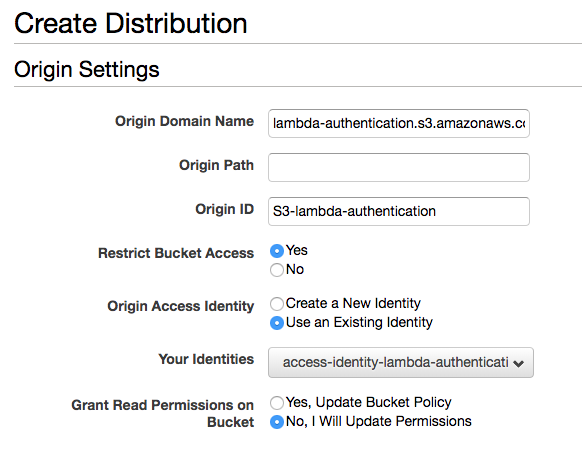
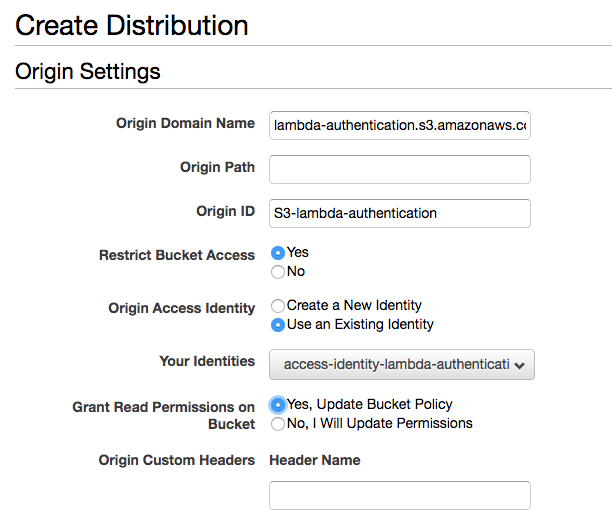
clean up s3 lambda auth post

Changed region(s): [[0.0, 0.0312, 1.0, 0.6236], [0.0928, 0.6548, 0.9278, 0.9666]]

diff --git a/_posts/2018-06-08-s3-lambda-auth.md b/_posts/2018-06-08-s3-lambda-auth.md
@@ -1,6 +1,6 @@
 ---
 layout: post
-title: Adding Authentication to Static Sites with S3, CloudFront, and Lambda
+title: Adding Authentication to Static Sites with AWS Lambda
 date: 2018-06-08
 categories: serverless
 thumbnail: /assets/posts/s3-lambda-auth/s3-lambda-auth-thumbnail.jpg
@@ -11,11 +11,11 @@ js:
 
 {% capture imgs %}{{ site.baseurl }}/assets/posts/s3-lambda-auth/images{% endcapture %}
 
-Many websites require authentication to protect private data. When working on a website that uses a server, it's usually not too much trouble to create some server-side middleware that protects certain routes or web pages. When working on a serverless website served by Apache, one can use [htpasswd files](https://httpd.apache.org/docs/2.4/programs/htpasswd.html) to challenge users to authenticate. When working on a website deployed to a bucket in Amazon Web Service's S3 service, however, creating an authentication layer is a little more tricky. This post will attempt to make the process a little easier for others to create password-protected S3 static sites.
+Many websites require authentication to protect private data. When working on a website that uses a server, it's usually not too much trouble to create some server-side middleware that protects certain routes or web pages. When working on a serverless website served by Apache or Nginx, one can use [htpasswd files](https://httpd.apache.org/docs/2.4/programs/htpasswd.html) to challenge users to authenticate. When working on a serverless website hosted from an S3 bucket, however, creating an authentication layer is a little more tricky. This post will attempt to make the process a little easier for others to create password-protected static sites with S3, CloudFront, and Lambda.
 
 ## Creating a Static File Site on S3
 
-To get started, you'll want to create a sample web page that we can upload to an S3 bucket. Here's the sample I'll be using:
+To get started, you'll want to create a sample web page. Here's the one I'll be using:
 
 {% highlight html %}
 <!DOCTYPE html>
@@ -35,53 +35,55 @@ To get started, you'll want to create a sample web page that we can upload to an
 </html>
 {% endhighlight %}
 
-Once you have an HTML page to display, you'll need to [register for an AWS account](https://aws.amazon.com/free/) if you don't already have one. Then, after signing in, go to your [list of S3 buckets](https://console.aws.amazon.com/s3/home), click "Create bucket" and give your bucket a name. I'll name my bucket lambda-auth:
+Once you have an HTML page to display, you'll need to [register for an AWS account](https://aws.amazon.com/free/) if you don't already have one. Then, after signing in, go to your [list of S3 buckets](https://console.aws.amazon.com/s3/home), click **"Create bucket"** and give your bucket a name. I'll name my bucket **lambda-authentication**:
 
 <img alt='Create a new bucket for a static file site' src='{{ imgs }}/create-bucket.png' />
 
-When prompted to set the permissions for the bucket, under "Manage public permissions" select "Grant public read acess to this bucket". That will display a little orange message confirming that your bucket contents will be public (we'll change this below):
+When prompted to set the permissions for the bucket, under **"Manage public permissions"**select **"Grant public read acess to this bucket"**. That will display a little orange message confirming that your bucket contents will be public (we'll change this later):
 
 <img alt='Make your bucket contents public' src='{{ imgs }}/bucket-permissions.png' />
 
-All other defaults are fine to accept. Once the bucket is created, you can upload your HTML file to the bucket by clicking the bucket, then clicking the "Upload" button. Drag your file (which should be named index.html) into the filepicker, click "Next" until you are prompted to "Manage public permissions" for your uploaded file, and select "Grant public read access to this object(s)":
+All other defaults are fine to accept. Once the bucket is created, you can upload your HTML file to the bucket by clicking the bucket, then clicking the **"Upload"** button. Drag your HTML file (which should be named index.html) into the filepicker, click **"Next"** until you are prompted to **"Manage public permissions"** for your uploaded file, and select **"Grant public read access to this object(s)"**:
 
 <img alt='Grant public read access to your html' src='{{ imgs }}/read-access-file.png' />
 
-Then keep clicking "Next" until you get to the end, and click "Upload". Next click the "Properties" tab in your bucket, select "Server website hosting", select "Use this bucket to host a website", and specify "index.html" as the default and error document:
+Then keep clicking **"Next"** until you get to the end, and click **"Upload"**. Next click the **"Properties"** tab in your bucket, select **"Server website hosting"**, select **"Use this bucket to host a website"**, and specify **"index.html"** as the default and error documents:
 
 <img alt='Configure bucket hosting' src='{{ imgs }}/configure-bucket-hosting.png' />
 
-Finally save your settings. If you want to get fancy later, you can upload a special 404 page and specify that file as the error document, but let's keep things simple. If you click on the "Static website hosting" card again, you should see an "Endpoint" specified. If you visit that web address, you should see your website:
+Finally save your settings. If you want to get fancy later, you can upload a special 404 page and specify that file as the error document, but let's keep things simple for now.
+
+If you click on the **"Static website hosting"** card again, you should see an **"Endpoint"** specified. If you visit that web address, you should see your website:
 
 <img alt='Testing the website is displayed' src='{{ imgs }}/hello-website.png' />
 
-Great! You're now ready to begin configuring user-authentication by configuring a CloudFront distribution for your site.
+Great! You're now ready to create a user-authentication layer by configuring a CloudFront distribution for your site.
 
 ## Distributing Your S3 Site with CloudFront
 
 CloudFront is AWS's content distribution network, which distributes your S3 site content to servers around the world, getting your content to viewers faster. CloudFront also allows us to add authentication to an S3 site.
 
-To get started with CloudFront, return to the AWS [console](https://console.aws.amazon.com/console/home?region=us-east-1) and click the CloudFront link, then click the big blue button that says "Create Distribution":
+To get started with CloudFront, return to the AWS [console](https://console.aws.amazon.com/console/home?region=us-east-1) and click the CloudFront link, then click the big blue button that says **"Create Distribution"**:
 
 <img alt='Create distribution button' src='{{ imgs }}/create-distribution.png' />
 
-On the following screen, click the blue button that says "Get Started" under the "Web" section, then select your S3 bucket address under "Origin Domain Name". Under "Restrict Bucket Access", select "Yes", then choose "access-identity-lambda-authentication" as the identity to use:
+On the following screen, click the blue button that says **"Get Started"** under the **"Web"** section, then **select your S3 bucket address** under "Origin Domain Name". Under **"Restrict Bucket Access"** select **"Yes"**, set **"access-identity-lambda-authentication"** as the identity to use, and finally choose **"Yes, Update Bucket Policy"**:
 
 <img alt='Create distribution button' src='{{ imgs }}/distribution-settings.png' />
 
-In the text field labelled "Default Root Object" below, type "index.html", then click "Create Distribution". From the next page, you should be able to click the "Distributions" link in the left sidebar to see your new distribution's status. Take a note of the value under "Domain Name" -- in just a few moments that value will become the new address of our site. The "Status" field will say "in progress" for a few minutes, so while it's generating we can configure the Lambda function that will provide the actual authentication mechanism.
+In the text field labelled **"Default Root Object"** below, type **"index.html"**, then click **"Create Distribution"**. From the next page, you should be able to click the **"Distributions"** link in the left sidebar to see your new distribution's status. Take a note of the value under **"Domain Name"** -- in just a few moments that value will become the new address of your new website. The **"Status"** field will say "in progress" for a few minutes, so while it's generating we can configure the Lambda function that will provide the actual authentication mechanism.
 
 ## Creating IAM Credentials
 
-In order to configure Lambda to work with an S3 bucket, we'll need to create an IAM profile that has access to the bucket. To do so, navigate back go the AWS [console](https://console.aws.amazon.com/console/home?region=us-east-1) and click the link for the [IAM](https://console.aws.amazon.com/iam/home?region=us-east-1#/home) service. Once there, click "Roles" in the left-hand sidebar, then "Create role". On the next screen, under "Choose the service that will use this role" click "Lambda", then click "Next: Permissions" at the bottom of the screen. Search for and select the "AWSLambdaExecute" role:
+In order to configure Lambda to work with an S3 bucket, we'll need to create an IAM profile that has access to the bucket. To do so, navigate back go the AWS [console](https://console.aws.amazon.com/console/home?region=us-east-1) and click the link for the [IAM](https://console.aws.amazon.com/iam/home?region=us-east-1#/home) service. Once there, click **"Roles"** in the left-hand sidebar, then **"Create role"**. On the next screen, under **"Choose the service that will use this role"** click **"Lambda"**, then click **"Next: Permissions"** at the bottom of the screen. Search for and select the **"AWSLambdaExecute"** role:
 
 <img alt='AWS Lambda Execute role' src='{{ imgs }}/lambda-execute.png' />
 
-Then click "Next: Review" at the bottom of the page. On the next screen, name your role "lambda-execute-role", then click "Create role":
+Then click **"Next: Review"** at the bottom of the page. On the next screen, name your role **"lambda-execute-role"**, then click **"Create role"**:
 
 <img alt='Naming the AWS Lambda Execute role' src='{{ imgs }}/lambda-execute-role.png' />
 
-On the next page you should see that your Lambda role has been created. Once it's created, click on the link to the role, then click "Trust relationships", then click "Edit trust relationship" and replace the contents with the following:
+On the next page you should see that your Lambda role has been created. Once it's created, click on the link to the role, then click **"Trust relationships"**, then click **"Edit trust relationship"** and replace the contents with the following:
 
 {% highlight json %}
 {
@@ -101,21 +103,21 @@ On the next page you should see that your Lambda role has been created. Once it'
 }
 {% endhighlight %}
 
-This little update allows the policy to interact with Lambda@Edge, which is the service that provides the authentication logic. Once that's all set, you are ready to proceed to using this role in Lambda itself.
+This little update allows the policy to interact with [Lambda@Edge](https://docs.aws.amazon.com/lambda/latest/dg/lambda-edge.html), which is the service that provides the authentication logic. Once that's all set, you are ready to proceed to using this role in Lambda itself.
 
 ## Creating the Authentication Layer with AWS Lambda
 
-With all of the stage-setting in place, we can now create the actual logic that will handle user-authentication. To do so, return once again to the AWS [console](https://console.aws.amazon.com/console/home?region=us-east-1). Once you're there, take a look at the black navigational bar at the top of your screen. Off to the right you should be able to select the "region" in which you wish to operate. For this next step *you must be in the N. Virginia region* (a.k.a. us-east-1). Once you're in the N. Virginia region, click the link for "Lambda".
+With all of the stage-setting in place, we can now create the actual logic that will handle user-authentication. To do so, return once again to the AWS [console](https://console.aws.amazon.com/console/home?region=us-east-1). Once you're there, take a look at the black navigational bar at the top of your screen. Off to the right you should be able to select the **"region"** in which you wish to operate. For this next step *you must be in the N. Virginia region* (a.k.a. us-east-1). Once you're in the N. Virginia region, click the link for **"Lambda"**.
 
-Lambda is a piece of AWS's "serverless" stack that allows one to run serverside code without having to build, run, and maintain a whole server. We'll use it to run our authentication logic. On the Lambda landing page, click the orange button that says "Create a function"
+Lambda is a piece of AWS's "serverless" stack that allows one to run serverside code without having to build, run, and maintain a whole server. We'll use it to run our authentication logic. On the Lambda landing page, click the orange button that says **"Create a function"**:
 
 <img alt='Creating a lambda function' src='{{ imgs }}/create-a-function.png' />
 
-On the next page, keep "Author from scratch" selected. Name the function "authentication", select Node.js as the runtime, select "Choose an existing role" under "Role", and select "lambda-execute-role" under "Existing role" (this is the role we just created in the IAM console):
+On the next page, keep **"Author from scratch"** selected. Name the function **"authentication"**, select **Node.js** as the runtime, select **"Choose an existing role"** , and select **"lambda-execute-role"** as the existing role to use (this is the role we just created in the IAM console):
 
 <img alt='Configuring lambda roles' src='{{ imgs }}/author-from-scratch.png' />
 
-Finally, click "Create function" at the bottom of the page. Scroll down to the code editor, then paste the following snippet into the input field:
+Finally, click **"Create function"** at the bottom of the page. Scroll down to the code editor and paste the following snippet into the input field:
 
 {% highlight javascript %}
 exports.handler = (event, context, callback) => {
@@ -149,21 +151,21 @@ exports.handler = (event, context, callback) => {
 };
 {% endhighlight %}
 
-This snippet exports a single function that takes as input the three default arguments Lambda provides to Node functions [[docs](https://docs.aws.amazon.com/lambda/latest/dg/nodejs-prog-model-handler.html)]. The function then pulls out the request and its headers, specifies the correct username and password, and checks to see if the user's request contained the username and password in its authentication headers. If not, it prompts the user to authenticate; if so it allows the user into the site.
+This snippet exports a single function that takes as input the three default arguments Lambda provides to Node.js functions [[docs](https://docs.aws.amazon.com/lambda/latest/dg/nodejs-prog-model-handler.html)]. The function then pulls out the user's HTTP request and its headers, specifies the correct username and password, and checks to see if the user's request contained the username and password in its authentication headers. If not, it prompts the user to authenticate; if so it allows the user into the site.
 
-After defining the function, click the big orange "Save" button in the upper-right of the screen. Then, within the list of "Actions" at the top of the screen, click "Publish", enter a version statement, and click "Publish":
+After defining the function, click the big orange **"Save"** button in the upper-right of the screen. Then, in the list of **"Actions"** at the top of the screen, click **"Publish"**, enter a version statement, and click **"Publish"**:
 
 <img alt='Create a version statement' src='{{ imgs }}/version-statement.png' />
 
- Next, under the "Designer" section toward the top of the page, click "CloudFront", which will move the CloudFront into the "triggers" portion of the displayed diagram:
+ Next, under the **"Designer"** section toward the top of the page, click **"CloudFront"**, which will move CloudFront into the triggers portion of the displayed diagram:
 
 <img alt='Diagram of lambda services' src='{{ imgs }}/lambda-diagram.png' />
 
-If you then scroll down a bit, you'll see a section titled "Configure triggers". Select your CloudFront distribution id under the "Distribution" selector (this is displayed under the ID column in your CloudFront distribution list), make sure you select "Viewer request" as the CloudFront event, and click the box that says "Enable trigger and replicate":
+If you then scroll down a bit, you'll see a section titled **"Configure triggers"**. Select your CloudFront distribution's ID under the **"Distribution"** selector (this is displayed under the ID column in your CloudFront distribution list), make sure you select **"Viewer request"** as the CloudFront event that will trigger the function defined above, and click the box that says **"Enable trigger and replicate"**:
 
 <img alt='Create a version statement' src='{{ imgs }}/trigger-configuration.png' />
 
-Then click "Add", and click the orange "Save" button in the upper-right hand corner. If you then try to access the address specified under the "Domain Name" column in your CloudFront distribution list, you'll be prompted for a username and password:
+Then click **"Add"**, and click the orange **"Save"** button in the upper-right hand corner. If you then try to access the address specified under the **"Domain Name"** column in your CloudFront distribution list [[example](https://dfdm943axhisa.cloudfront.net/)], you'll be prompted for a username and password:
 
 <img alt='Create a version statement' src='{{ imgs }}/authenticate-challenge.png' />
 
@@ -171,10 +173,14 @@ If you type "user" and "password" as the credentials (or whichever values you se
 
 ## Cleaning Up
 
-There's just one problem with the setup we've achieved. If you request your original S3 bucket address, you'll be able to access your content without being challenged to authenticate. To fix this, return to the AWS [console](https://console.aws.amazon.com/console/home?region=us-east-1), delete your content, and reupload your web files. This time, don't add public read permissions to the uploaded files:
+There's just one problem with the setup we established above. If you request your original S3 bucket address, you'll be able to access your content without being challenged to authenticate. To fix this, return to the AWS [console](https://console.aws.amazon.com/console/home?region=us-east-1), delete your content, and reupload your web files. This time, don't add public read permissions to the uploaded files:
 
 <img alt='Create a version statement' src='{{ imgs }}/no-public-read.png' />
 
-Thereafter, if you request your bucket address directly, you'll get a 403 response:
+Thereafter, if you request your bucket address directly, you'll get a 403 response as expected:
 
 <img alt='Create a version statement' src='{{ imgs }}/403.png' />
+
+If you request the address of your distribution instead, you'll be able to authenticate and see your [website](https://dfdm943axhisa.cloudfront.net/):
+
+<img alt='The final distribution site' src='{{ imgs }}/distribution-site.png' />
